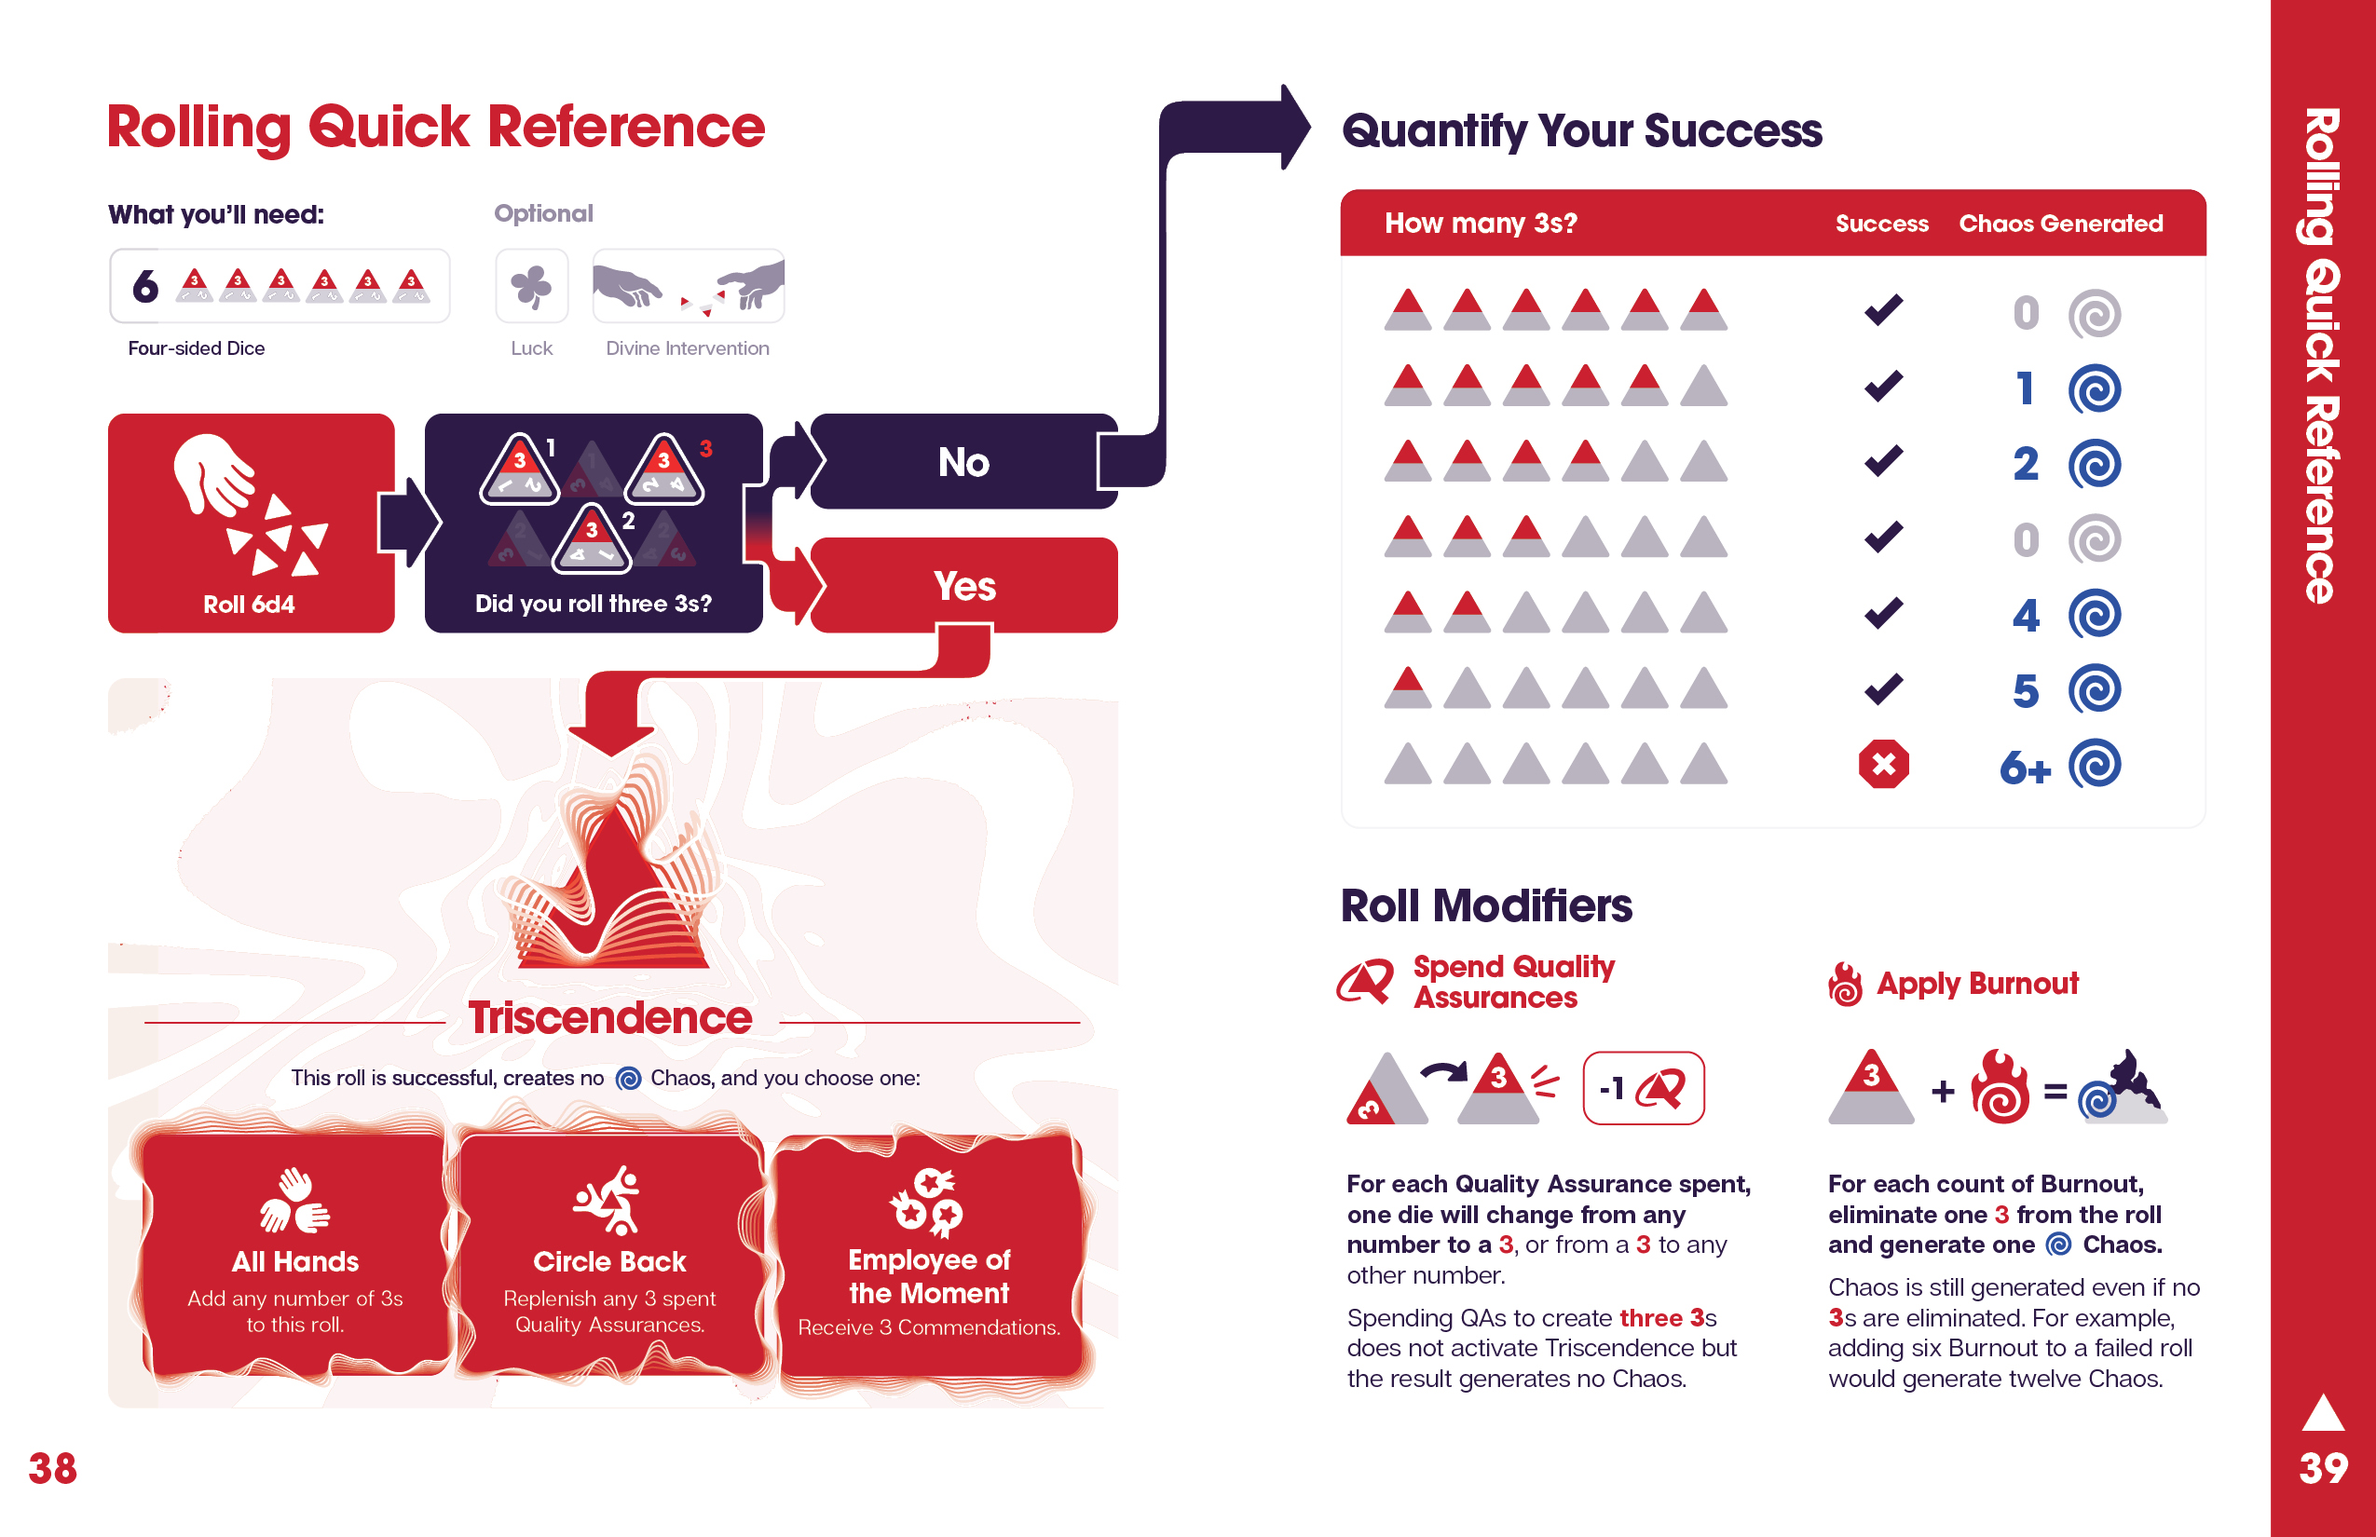
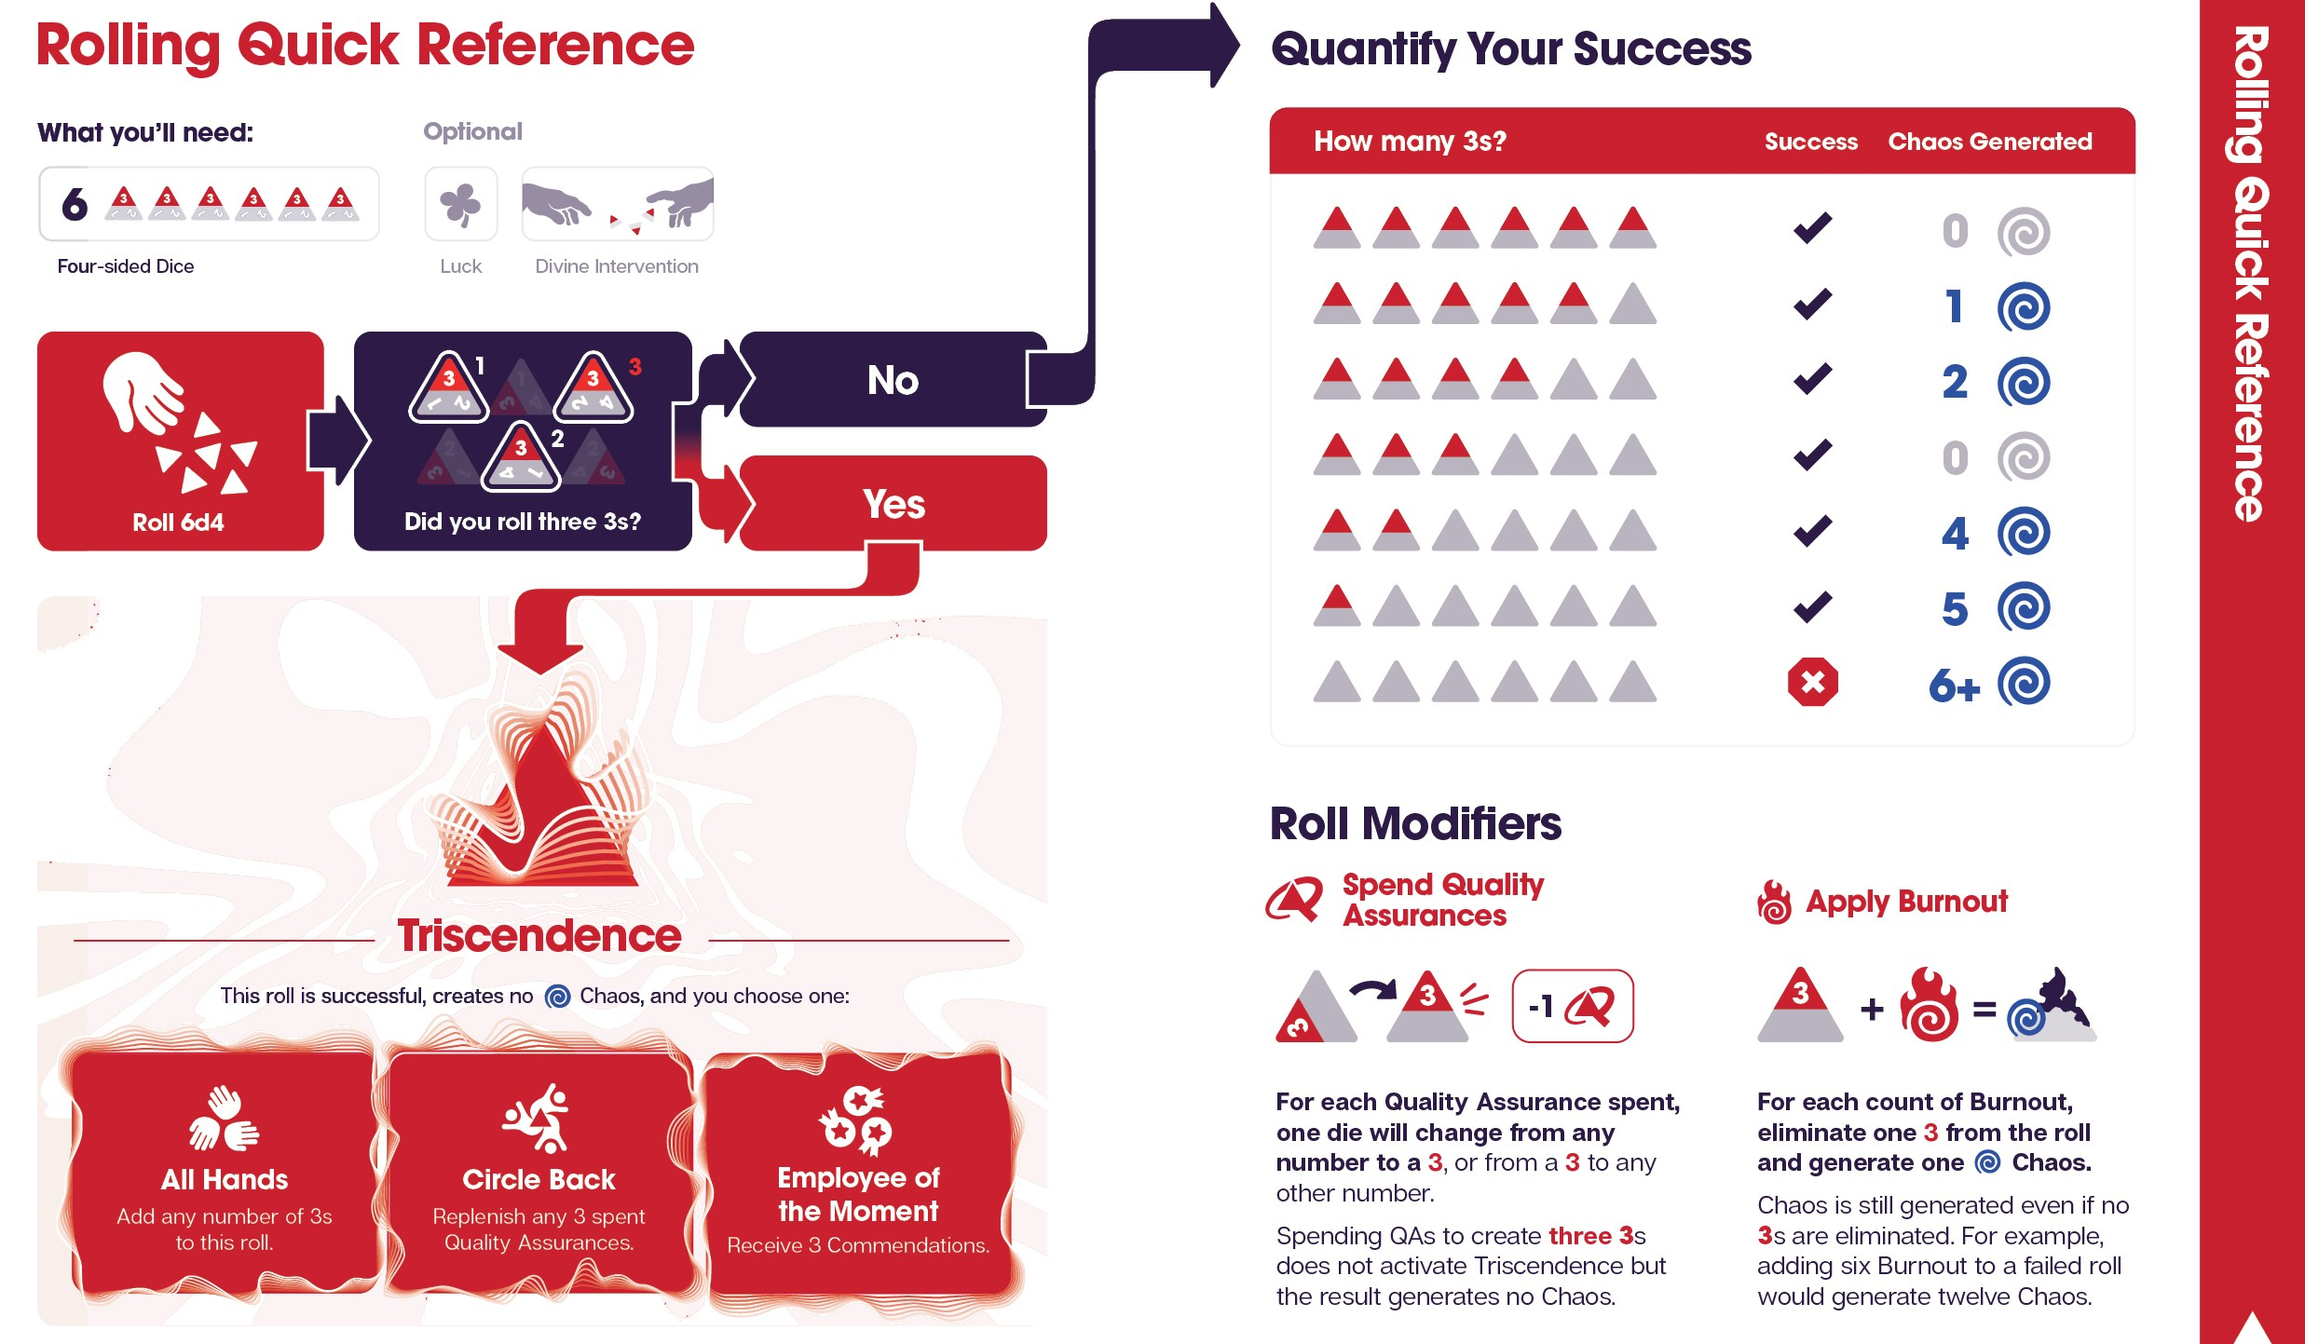
Improving rules reference

diff --git a/app/triangleAgency/page.tsx b/app/triangleAgency/page.tsx
@@ -2,6 +2,8 @@
 import {
   Button,
   ButtonBase,
+  Container,
+  Dialog,
   Divider,
   Grid,
   IconButton,
@@ -17,6 +19,7 @@ import Box from "@mui/material/Box";
 import { Property } from "csstype";
 import Image from "next/image";
 import rulesReferenceJpg from "../../public/TARulesReference.jpg";
+import askAgencyJpg from "../../public/AskAgencyReference.jpg";
 import burnoutSvg from "../../public/burnout.svg";
 import successSvg from "../../public/ability - success.svg";
 import failureSvg from "../../public/ability - failure.svg";
@@ -395,6 +398,8 @@ const DiceRoller = () => {
   );
 };
 export default function Dashboard() {
+  const [rollPopover, setRollPopover] = React.useState(false);
+  const [askPopover, setAskPopover] = React.useState(false);
   return (
     <ThemeProvider theme={triangleTheme}>
       <Box sx={{ display: "flex" }}>
@@ -411,18 +416,64 @@ export default function Dashboard() {
             overflow: "auto",
           }}
         >
-          <Grid container>
-            <Grid size={{ xs: 12, lg: 7, xl: 6 }} sx={{ padding: 1 }}>
-              <DiceRoller />
+          <Container maxWidth="lg">
+            <Grid container>
+              <Grid size={{ xs: 12, md: 10 }} sx={{ padding: 1 }}>
+                <DiceRoller />
+              </Grid>
+
+              <Grid size={{ xs: 12, md: 2 }}>
+                <Stack spacing={1} sx={{ padding: 1 }}>
+                  <Button
+                    fullWidth
+                    variant="outlined"
+                    onClick={() => setRollPopover(true)}
+                  >
+                    Rolling Rules
+                  </Button>
+                  <Button
+                    fullWidth
+                    variant="outlined"
+                    onClick={() => setAskPopover(true)}
+                  >
+                    Ask the Agency
+                  </Button>
+                </Stack>
+              </Grid>
+              <Dialog
+                open={rollPopover}
+                fullWidth
+                maxWidth="lg"
+                onClose={() => setRollPopover(false)}
+              >
+                <Image
+                  alt={"RULESREF"}
+                  src={rulesReferenceJpg}
+                  style={{
+                    objectFit: "contain",
+                    width: "100%",
+                    height: "auto",
+                  }}
+                />
+              </Dialog>
+              <Dialog
+                open={askPopover}
+                fullWidth
+                maxWidth="lg"
+                onClose={() => setAskPopover(false)}
+              >
+                <Image
+                  alt={"RULESREF"}
+                  src={askAgencyJpg}
+                  style={{
+                    objectFit: "contain",
+                    width: "100%",
+                    height: "auto",
+                  }}
+                />
+              </Dialog>
             </Grid>
-            <Grid size={{ xs: 12, lg: 5, xl: 6 }}>
-              <Image
-                alt={"RULESREF"}
-                src={rulesReferenceJpg}
-                style={{ objectFit: "contain", width: "100%", height: "auto" }}
-              />
-            </Grid>
-          </Grid>
+          </Container>
         </Box>
       </Box>
     </ThemeProvider>
